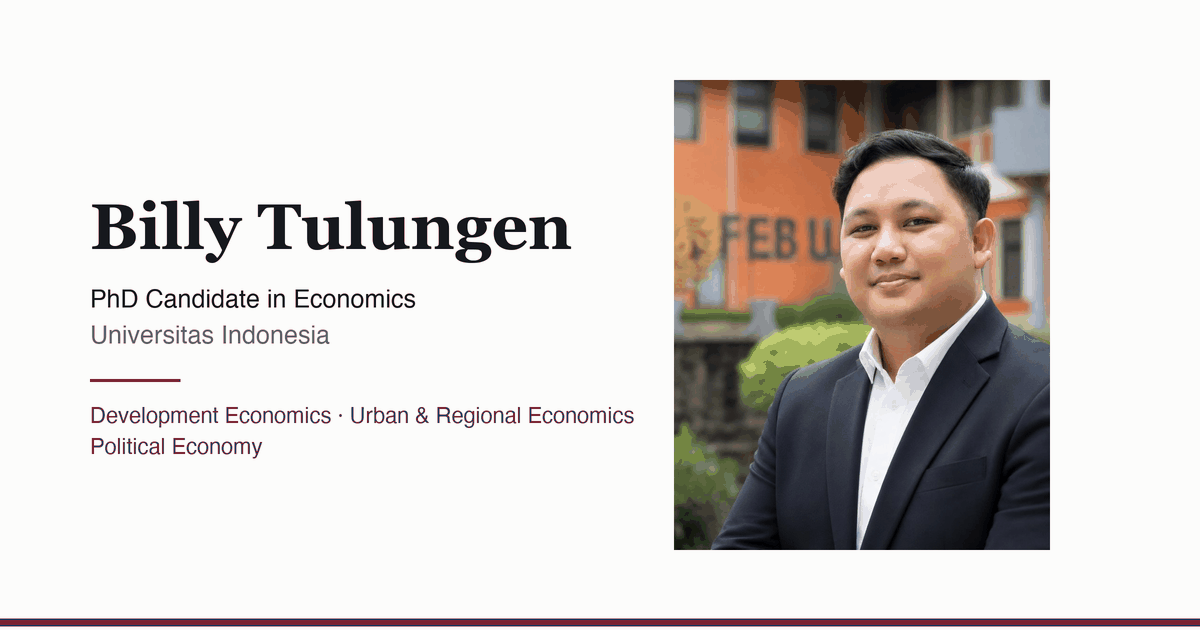
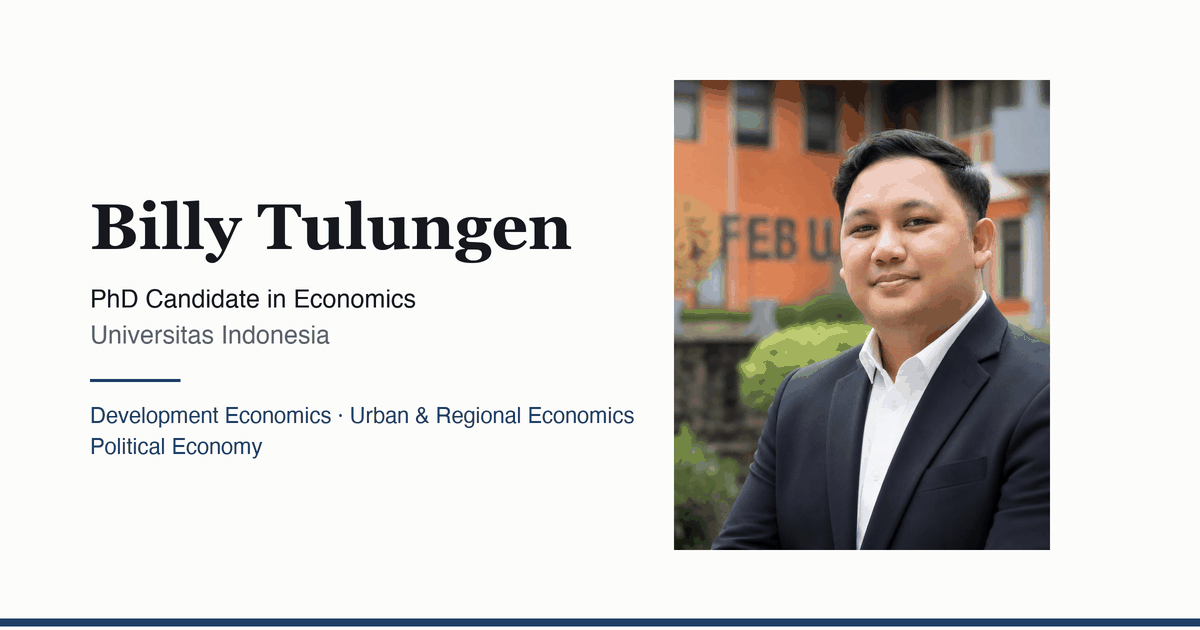
Return the accent to navy and cool the panel and rule instead
Oxblood read as a shift away from the discipline's own colour, and an identity
its owner keeps questioning is the wrong identity whatever the measurements say.
Links, marks, the section ticks, the CV button, the favicon and the share card
all go back to #1d3f66.

The complaint that sent us to oxblood is answered from the other side instead.
Every background sat at hue 43-60 while every grey sat at 210-223, and $rule at
88% lightness was dark enough for that beige to read next to the accent. $panel
and $rule now sit just cool of neutral, hue 220-240, so the hairlines agree with
the greys and with navy. $paper keeps its warmth: at 99% lightness the hue is
imperceptible and only reads as a white that is not clinical.

The enlarged monogram is kept. That fix was about legibility at 16px and had
nothing to do with colour. Eleven of eleven pairings pass AA.

diff --git a/styles.scss b/styles.scss
@@ -7,14 +7,15 @@ $ink:          #16181d;   // primary text
 $ink-muted:    #5c626c;   // secondary text, metadata
 $ink-faint:    #6e747c;   // tertiary, dates, captions — 4.6:1 on $paper (AA)
 $paper:        #fcfcfb;   // page background (a hair warm)
-$panel:        #f5f4f1;   // sunken panel background
-$rule:         #e4e2dd;   // hairline borders
-// Oxblood rather than the academic-default navy, and warm on purpose. Every
-// background here sits at hue 43–60 while every grey sits at 210–223; a cool
-// accent left the beige hairlines reading dusty beside it. A warm accent
-// resolves the split from the other side and keeps the warm paper an asset.
-$accent:       #7a2231;   // oxblood — links, marks (10.5:1 on $paper)
-$accent-soft:  #aa2f44;   // hover (6.4:1, the same step navy took)
+// Panel and rule sit just cool of neutral so they agree with the greys above
+// (hue 210-223) and with the navy accent. They used to be beige, hue 43-45, and
+// $rule is dark enough at 88% lightness for that warmth to read: the hairlines
+// looked dusty next to the accent. $paper stays warm; at 99% lightness its hue
+// is imperceptible and it only reads as a white that is not clinical.
+$panel:        #f4f4f6;   // sunken panel background
+$rule:         #e1e3e7;   // hairline borders
+$accent:       #1d3f66;   // deep navy — links, marks (10.5:1 on $paper)
+$accent-soft:  #34618f;   // hover (6.3:1)
 
 // Bootstrap variable overrides consumed by Quarto/cosmo
 $body-bg:            $paper;
@@ -125,13 +126,13 @@ h3 {
 
 p { margin-bottom: 1.05rem; }
 
-// The link colour sits only 1.78:1 against the body text around it, so the
+// The link colour sits only 1.65:1 against the body text around it, so the
 // underline is the sole thing marking a link. At 0.28 the rule itself was
 // 1.67:1 against the page and could be missed on a bright screen; 0.58 puts it
 // at 3.3:1, clear of the 3:1 floor with room for rounding, and still quiet.
 a {
   text-decoration: none;
-  border-bottom: 1px solid rgba(122, 34, 49, 0.58);
+  border-bottom: 1px solid rgba(29, 63, 102, 0.58);
   transition: border-color 0.15s ease, color 0.15s ease;
 
   &:hover {
